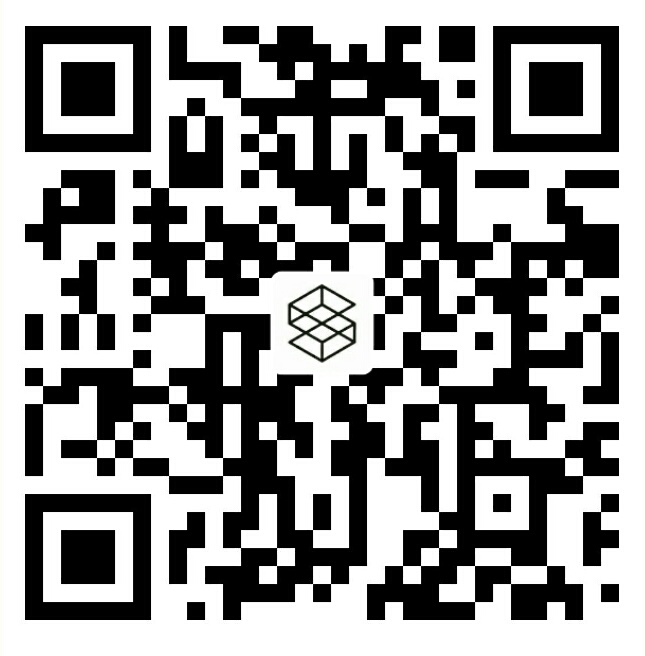
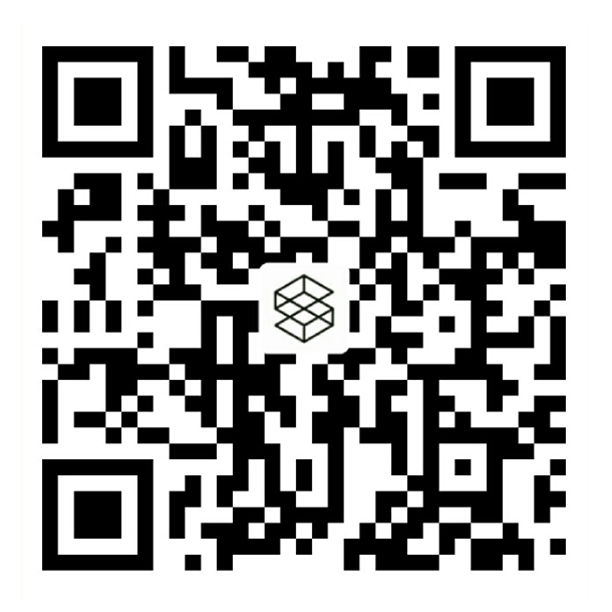
modify img style

diff --git a/layouts/partials/docs_layout.html b/layouts/partials/docs_layout.html
@@ -48,10 +48,10 @@
 
           {{ partial "page_edit" . }}
       
-          <div class="row d-flex justify-content-start">
+          <div class="row d-flex justify-content-start align-items-center">
             <div class="col-4">
               <p>关注我们</p>
-              <img src="/img/weixin-gzh-qrcode.png" height="100px" alt="关注我们">
+              <img src="/img/weixin-gzh-qrcode.png"  alt="关注我们">
             </div>
             <div class="col-4">
               <p>支持我们</p>
